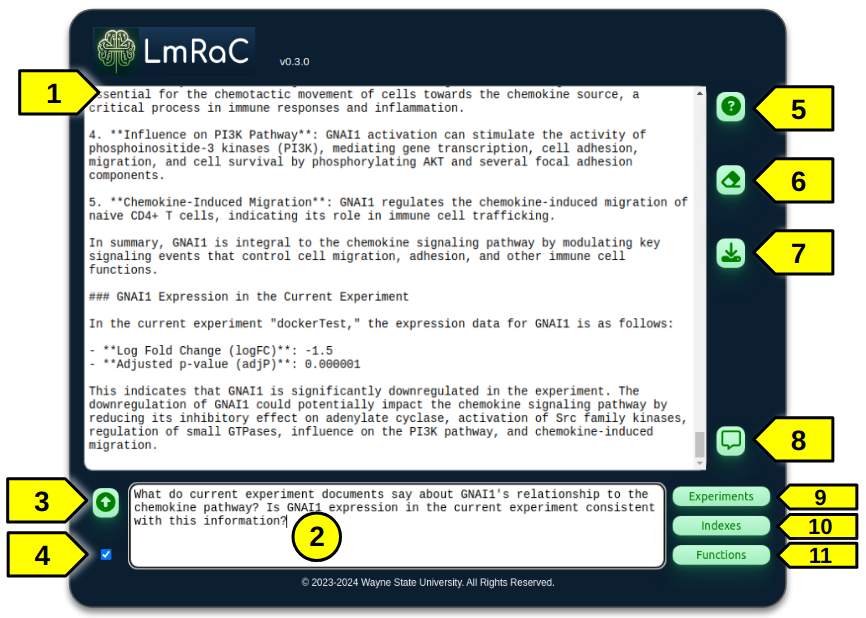
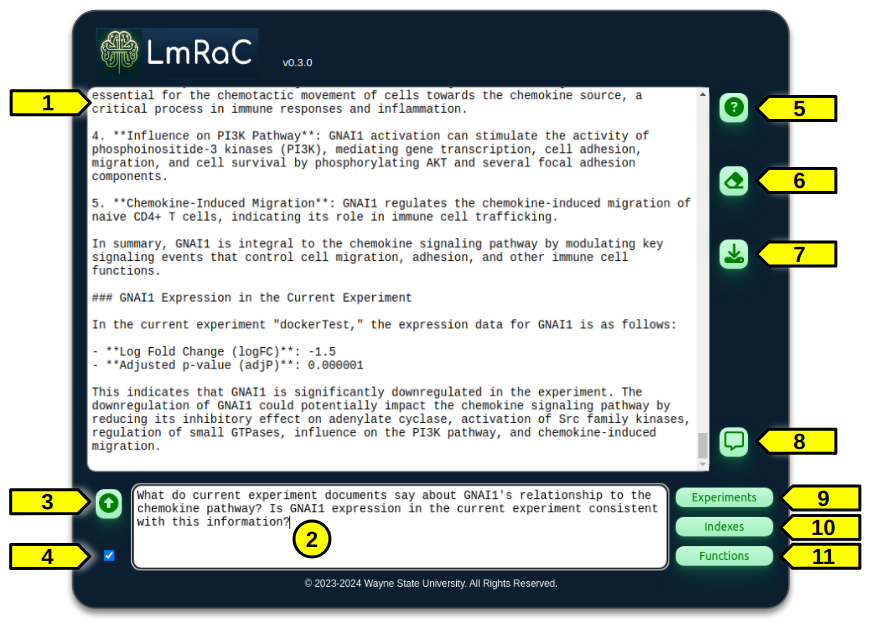
Updated titles and made figure callouts consistent size

Changed region(s): [[0.0, 0.0, 0.9977, 1.0], [0.6859, 0.123, 0.7171, 0.1845]]

diff --git a/README.md b/README.md
@@ -173,19 +173,26 @@ xxx
 
 xxx
 
-1.  **Search:** From the main Search bar search for *dbcraig/lmrac:latest* and then click on Pull. This will copy the latest release of LmRaC to your local machine.
+#### Pull the latest LmRaC image
+
+From the main Search bar search for *dbcraig/lmrac:latest* and then click on Pull. This will copy the latest release of LmRaC to your local machine.
 
 ![](img/DockerDesktop_Pull.png)
 
-2.  **Images:** You should now see the dbcraig/lmrac:latest image in the Images view. Highlight this image and click on the Run icon under Actions.
+#### Create a running container from the image
+
+You should now see the dbcraig/lmrac:latest image in the Images view. Highlight this image and click on the Run icon under Actions.
 
 ![](img/DockerDesktop_Run.png)
 
-3.  **Optional settings:** Before running the image set the parameters so that LmRaC has API keys and knows where to find your data.
+#### Container setting
+
+Before running the image set the parameters so that LmRaC has API keys and knows where to find your data.
 
 ![](img/DockerDesktop_Settings.png)
 
-4.  **Run:** xxx
+#### Launch the LmRaC application
+xxx
 
 ![](img/DockerDesktop_Launch.png)
 
